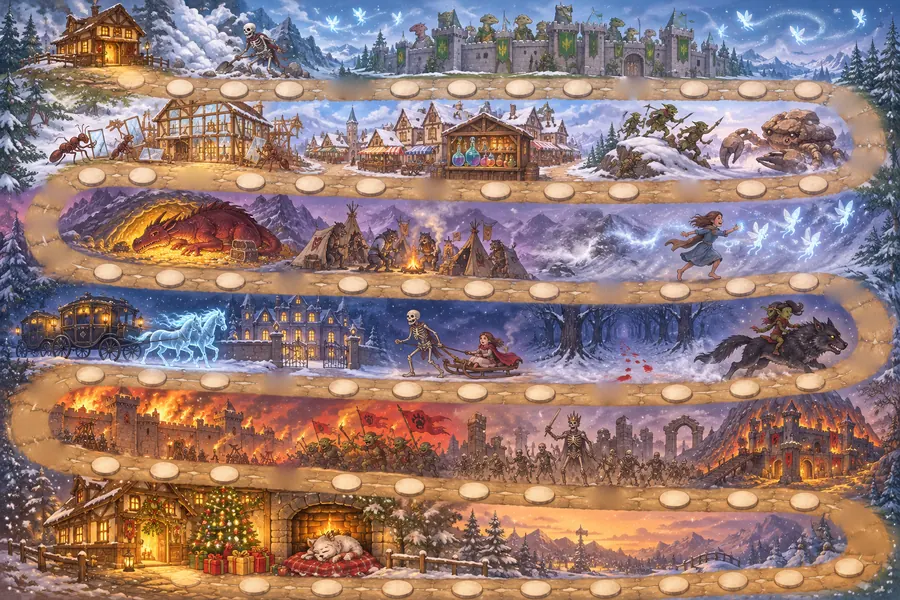
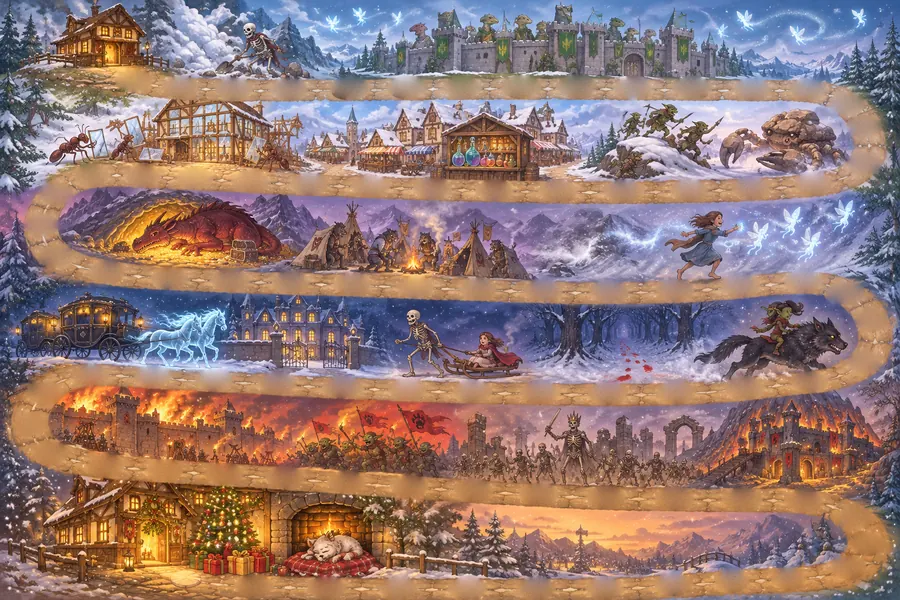
fix(board): even cell spacing on the volumes 2–3 map
The painted trail had twelve or thirteen stones a row for ten cells, so
cells sat on stones with wide gaps wherever a spare one was painted over.
Now every stone is painted over and the cells run at equal steps along
each row. The bottom row is lifted to the upper edge of the trail: the
trail runs along the very bottom of the picture and the circles were cut
off by the map's edge.

diff --git a/shared/utils/board.ts b/shared/utils/board.ts
@@ -382,71 +382,73 @@ const V23_TEXTS: CellText[] = [
 ];
 
 /** Где клетки на карте томов 2–3 (public/board/map-v23.webp), в процентах
- *  ширины и высоты рисунка, — на камнях тропы, по десять в ряд. Камни, на
- *  которые клетки не встали, с рисунка затёрты. Поменяется рисунок —
- *  координаты снимать заново. */
+ *  ширины и высоты рисунка, — на тропе, по десять в ряд через равные
+ *  расстояния. Нарисованные камни тропы затёрты: их было по 12–13 в ряд, и
+ *  клетки на них вставали неровно. Поменяется рисунок — координаты снимать
+ *  заново (scripts/tmp-check/even-cells.cjs). Нижний ряд поднят к верхней
+ *  кромке тропы: она идёт у самого края рисунка, и кружки обрезались. */
 const V23_LAYOUT: [number, number][] = [
   [14.8, 13.4],
   [20, 14.6],
-  [26, 14.7],
-  [32.1, 14.7],
-  [45.2, 14.5],
-  [51.3, 14.6],
-  [57.9, 14.4],
-  [64.1, 14.4],
-  [76.8, 14.6],
-  [83.5, 14.7],
+  [27.7, 14.7],
+  [35.5, 14.6],
+  [43.2, 14.5],
+  [51, 14.6],
+  [58.8, 14.4],
+  [66.5, 14.5],
+  [74.3, 14.6],
+  [82, 14.7],
   [89.8, 14.8],
   [90.3, 30.6],
-  [83.4, 31.3],
-  [69.2, 31.7],
-  [62, 31.7],
-  [54.9, 31.6],
-  [41.1, 31],
-  [34.4, 30.6],
-  [27.8, 30.1],
-  [15.8, 29.2],
+  [81.4, 31.3],
+  [72.5, 31.7],
+  [63.6, 31.7],
+  [54.7, 31.6],
+  [45.8, 31.3],
+  [36.8, 30.7],
+  [28, 30.1],
+  [19.1, 29.4],
   [10.2, 29.2],
   [11.9, 45.2],
-  [18.8, 46.3],
-  [25.5, 46.7],
-  [39.1, 47.3],
-  [46.2, 47.8],
-  [53.1, 48],
-  [60.4, 48.3],
-  [75, 48.3],
-  [82.2, 47.6],
+  [20.5, 46.4],
+  [29.1, 46.9],
+  [37.7, 47.2],
+  [46.3, 47.8],
+  [54.9, 48.1],
+  [63.5, 48.3],
+  [72.1, 48.3],
+  [80.7, 47.8],
   [89.3, 46.8],
   [89.9, 63.6],
-  [82.7, 64.6],
-  [75.1, 65.3],
-  [60, 65.3],
-  [52.5, 65.1],
-  [45.2, 64.8],
-  [38.1, 64.5],
-  [23.8, 63.3],
-  [16.9, 62.7],
+  [81.1, 64.7],
+  [72.2, 65.3],
+  [63.3, 65.3],
+  [54.4, 65.2],
+  [45.5, 64.8],
+  [36.7, 64.4],
+  [27.8, 63.6],
+  [18.9, 62.9],
   [10, 62.5],
   [11.7, 77.4],
-  [18.3, 78.3],
-  [24.9, 78.9],
-  [38.5, 80.3],
-  [45.4, 81],
-  [52.6, 81.6],
-  [59.9, 82.3],
-  [74.9, 83],
-  [82.5, 83.1],
+  [20.3, 78.5],
+  [29, 79.3],
+  [37.6, 80.2],
+  [46.2, 81.1],
+  [54.8, 81.8],
+  [63.4, 82.5],
+  [72.1, 82.9],
+  [80.7, 83.1],
   [89.3, 83.4],
   [94.2, 94.4],
-  [87.6, 96.3],
-  [81.3, 96.6],
-  [74.8, 97.3],
-  [67.1, 97.9],
-  [59.5, 97.9],
-  [52, 97.9],
-  [44.2, 97.9],
-  [36.3, 97.9],
-  [28.2, 97.6],
+  [87, 95.2],
+  [79.6, 95.2],
+  [72.3, 95.2],
+  [65, 95.2],
+  [57.6, 95.2],
+  [50.3, 95.2],
+  [42.9, 95.2],
+  [35.5, 95.2],
+  [28.2, 95.2],
 ];
 
 export const BOARD_MAPS: Record<BoardMapId, BoardMap> = {
